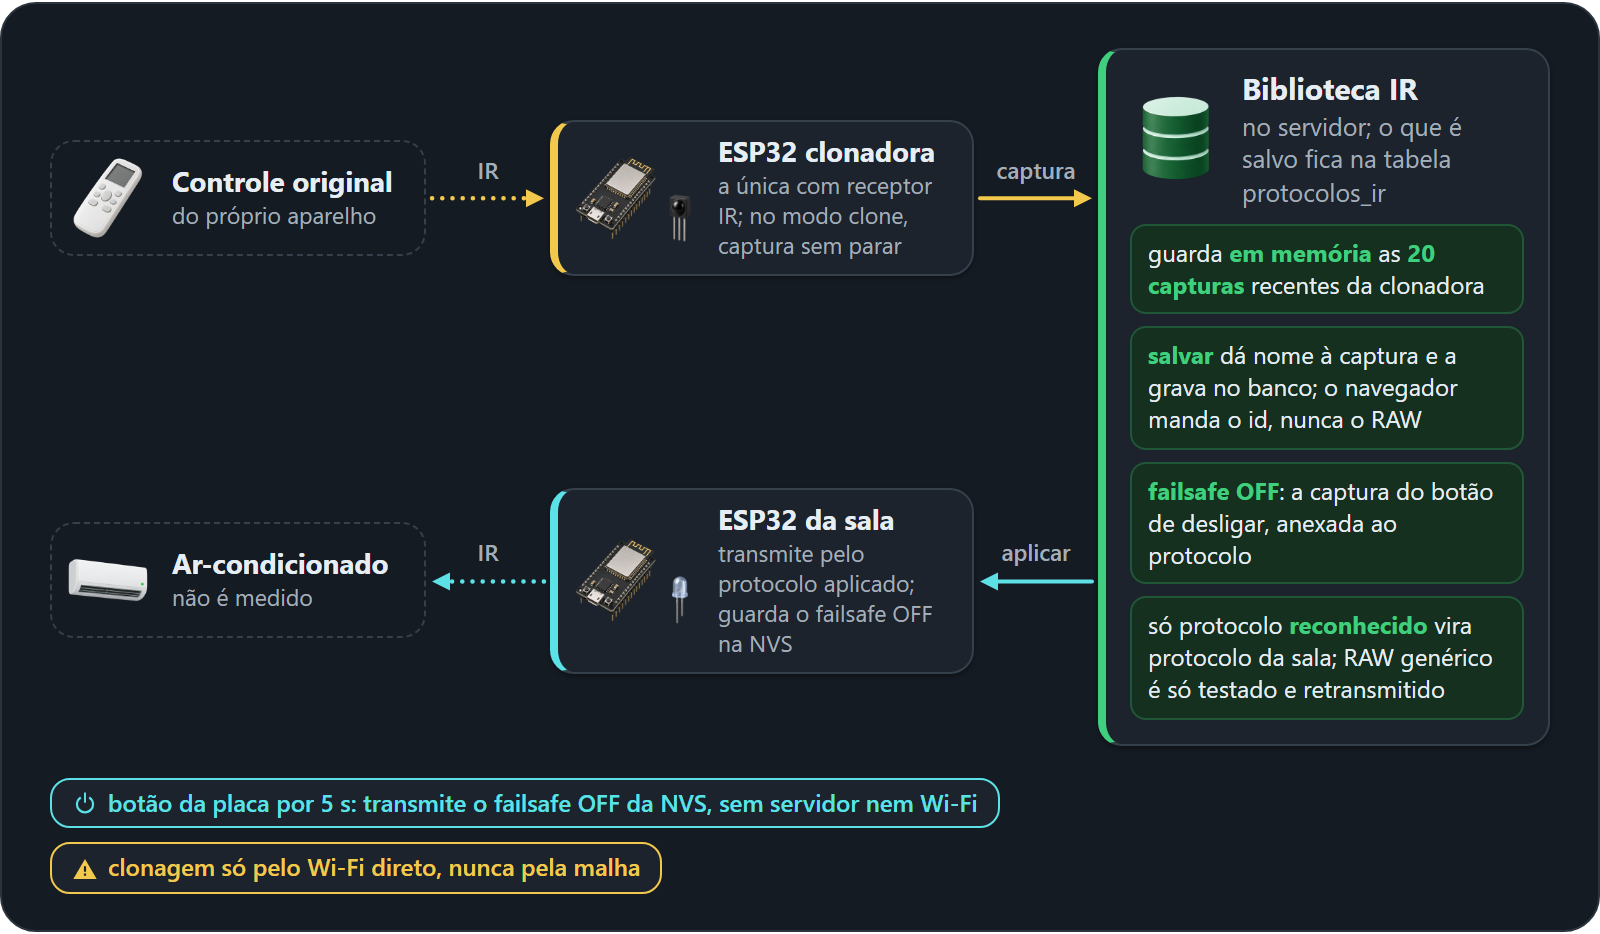
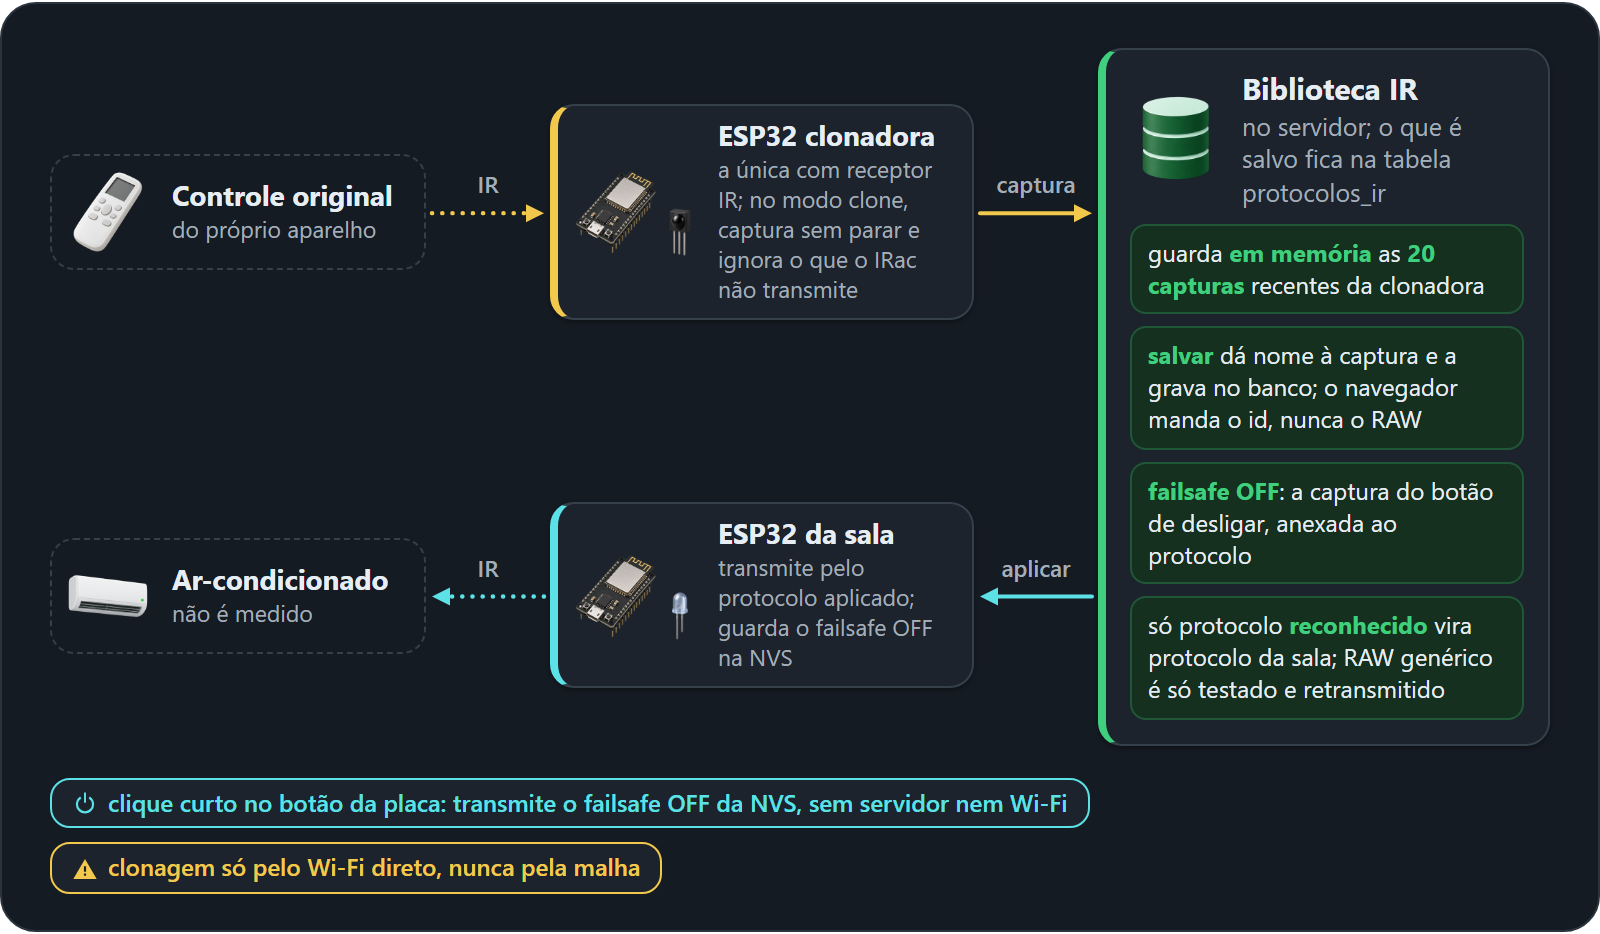
Regenerate the IR cloning figure from its current source
The source of the IR cloning figure gained two texts on 2026-10-19:
the clone card says it ignores what IRac does not transmit, and the
note says a short click on the board button sends the failsafe OFF.
The composed light and dark PNGs still showed the earlier texts.

Both PNGs are rendered again with compor.js. Against the previous
images only those two texts change; the taller clone card moves the
neighbouring cards and arrows down by about 7 CSS pixels and nothing
else differs. The README alt text now uses the figure's own wording
for the ignored captures.

diff --git a/README.md b/README.md
@@ -1077,7 +1077,7 @@ O caminho de um sinal, do controle original ao ar-condicionado da sala:
 
 <picture>
   <source media="(prefers-color-scheme: dark)" srcset="docs/readme-assets/composed/ir-cloning-dark.png">
-  <img src="docs/readme-assets/composed/ir-cloning-light.png" width="800" alt="Caminho de um sinal infravermelho. O controle original do aparelho transmite para a ESP32 clonadora, a única com receptor IR, que no modo clone captura sem parar, ignora o que a biblioteca IR não sabe transmitir como estado de ar-condicionado e envia as demais capturas ao servidor. A biblioteca IR, no servidor, guarda em memória as 20 capturas recentes da clonadora; salvar dá um nome à captura e a grava na tabela protocolos_ir, e o navegador manda só o id dela, nunca o RAW; o failsafe OFF é a captura do botão de desligar, anexada ao protocolo; e só protocolo reconhecido vira protocolo da sala. Aplicado a uma sala, o protocolo vai à ESP32 da sala, que guarda o failsafe OFF na NVS e transmite por infravermelho ao ar-condicionado, que não é medido. Notas: um clique curto no botão da placa transmite o failsafe OFF da NVS sem servidor nem Wi-Fi; a clonagem só funciona pelo Wi-Fi direto, nunca pela malha.">
+  <img src="docs/readme-assets/composed/ir-cloning-light.png" width="800" alt="Caminho de um sinal infravermelho. O controle original do aparelho transmite para a ESP32 clonadora, a única com receptor IR, que no modo clone captura sem parar, ignora o que o IRac não transmite e envia as demais capturas ao servidor. A biblioteca IR, no servidor, guarda em memória as 20 capturas recentes da clonadora; salvar dá um nome à captura e a grava na tabela protocolos_ir, e o navegador manda só o id dela, nunca o RAW; o failsafe OFF é a captura do botão de desligar, anexada ao protocolo; e só protocolo reconhecido vira protocolo da sala. Aplicado a uma sala, o protocolo vai à ESP32 da sala, que guarda o failsafe OFF na NVS e transmite por infravermelho ao ar-condicionado, que não é medido. Notas: um clique curto no botão da placa transmite o failsafe OFF da NVS sem servidor nem Wi-Fi; a clonagem só funciona pelo Wi-Fi direto, nunca pela malha.">
 </picture>
 
 Biblioteca central de sinais infravermelhos, persistida na tabela `protocolos_ir` do SQLite e exclusiva do superadministrador:
